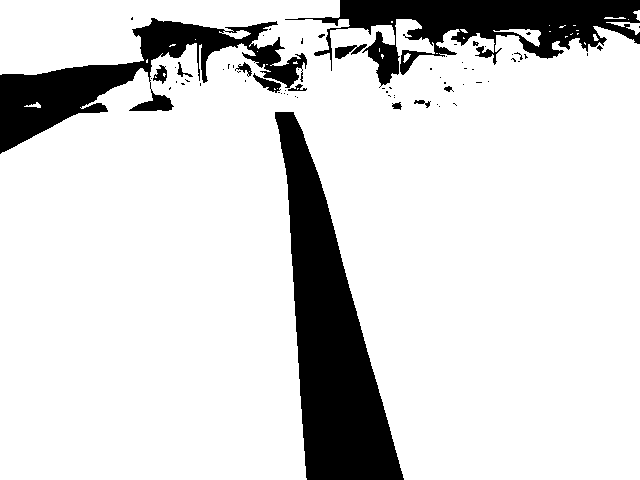
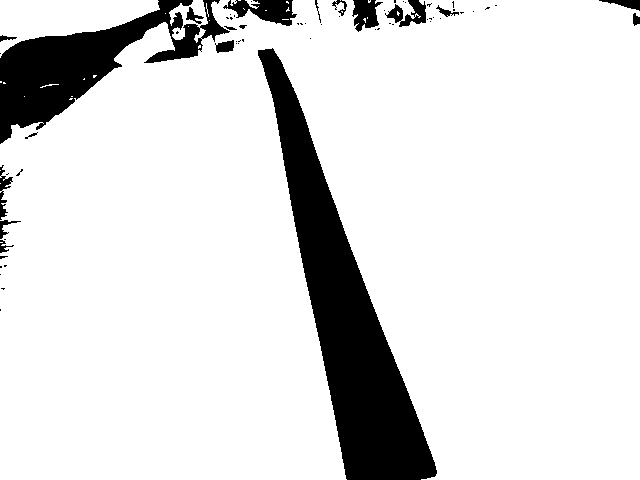
Add files via upload

diff --git a/run.py b/run.py
@@ -15,69 +15,75 @@ gpio.setup(pin1, gpio.OUT)
 gpio.setup(pin2, gpio.OUT)
 gpio.setup(pin3, gpio.OUT)
 gpio.setup(pin4, gpio.OUT)
-
+vp= cv2.VideoCapture(0)
 center=320
-while(1):
-    #call攝影機出來拍照
-    vp= cv2.VideoCapture(0)
-    return_value, img= vp.read()
-    cv2.imwrite("1.png", img)
-    #灰階
-    #cv2.imread("1.png",img)
-    img_gray = cv2.cvtColor(img, cv2.COLOR_BGR2GRAY)
-    # 反二值化
-    ret,BW= cv2.threshold(img_gray, 180, 255, cv2.THRESH_BINARY_INV) 
-    cv2.imwrite("BW.png",BW)
+try:
+    while(1):
+        #call攝影機出來拍照
+        return_value, img= vp.read()
+        if return_value==False:
+            continue
+        cv2.imwrite("1.png", img)
+        
+        #灰階
+        #cv2.imread("1.png",img)
+        img_gray = cv2.cvtColor(img, cv2.COLOR_BGR2GRAY)
+        # 反二值化
+        ret,BW= cv2.threshold(img_gray, 180, 255, cv2.THRESH_BINARY_INV) 
+        cv2.imwrite("BW.png",BW)
+        cv2.imshow('out',BW)
+        # 单看第400行的像素值
+        color =BW[400] 
+        # 找到黑色的像素点个数
+        white_count = np.sum(color == 0)
+        # 找到黑色的像素点索引
+        white_index = np.where(color == 0)
 
-    # 单看第400行的像素值
-    color =BW[300] 
-    # 找到黑色的像素点个数
-    white_count = np.sum(color == 0)
-    # 找到黑色的像素点索引
-    white_index = np.where(color == 0)
+        # 防止white_count=0的报错
+        if white_count ==0:
+            white_count = 1
+        if np.size(white_count) ==0:
+            continue
+        if np.size(white_index )==0:
+            continue
+        # 找到白色像素的中心点位置
+        center = (white_index[0][white_count - 1] + white_index[0][0]) / 2
 
-    # 防止white_count=0的报错
-    if white_count == 0:
-        white_count = 1
+        # 计算出center与标准中心点的偏移量（圖片預設像素為480*640）X軸為640
+        direction = center - 320
+        print(direction)                            #偏移量值
 
-    # 找到白色像素的中心点位置
-    center = (white_index[0][white_count - 1] + white_index[0][0]) / 2
+        # 停止
+        if abs(direction) > 250:
+                gpio.output(pin1, False)
+                gpio.output(pin2, False)
+                gpio.output(pin3, False)
+                gpio.output(pin4, False)
 
-    # 计算出center与标准中心点的偏移量（圖片預設像素為480*640）X軸為640
-    direction = center - 320
-    print(direction)                            #偏移量值
-
-    # 停止
-    if abs(direction) > 250:
+        # 右转
+        elif direction >= 0:
+            # 限制在70以内
+            if direction > 70:
+                direction = 70
             gpio.output(pin1, False)
-            gpio.output(pin2, False)
+            gpio.output(pin2, True)
             gpio.output(pin3, False)
             gpio.output(pin4, False)
 
-    # 右转
-    elif direction >= 0:
-        # 限制在70以内
-        if direction > 70:
-            direction = 70
-        gpio.output(pin1, False)
-        gpio.output(pin2, True)
-        gpio.output(pin3, False)
-        gpio.output(pin4, False)
+        # 左转
+        elif direction < 0:
+            if direction < -70:
+                direction = -70
+            gpio.output(pin1, False)
+            gpio.output(pin2, False)
+            gpio.output(pin3, False)
+            gpio.output(pin4, True)
 
-    # 左转
-    elif direction < 0:
-        if direction < -70:
-            direction = -70
-        gpio.output(pin1, False)
-        gpio.output(pin2, False)
-        gpio.output(pin3, False)
-        gpio.output(pin4, True)
-
-
-    if cv2.waitKey(1) & 0xFF == ord('q'):
-        break
+        if cv2.waitKey(1) & 0xFF == ord('q'):
+            break
     
 # 释放清理
-vp.release()
-cv2.destroyAllWindows()
-gpio.cleanup()
+finally:
+    vp.release()
+    cv2.destroyAllWindows()
+    gpio.cleanup()

diff --git a/run1.py b/run1.py
@@ -47,7 +47,7 @@ while(1):
     # 计算出center与标准中心点的偏移量（圖片預設像素為480*640）X軸為640
     direction = center - 320
     print(direction)                            #偏移量值
-
+    vp.release()
     # 停止
     if abs(direction) > 250:
             gpio.output(pin1, False)
